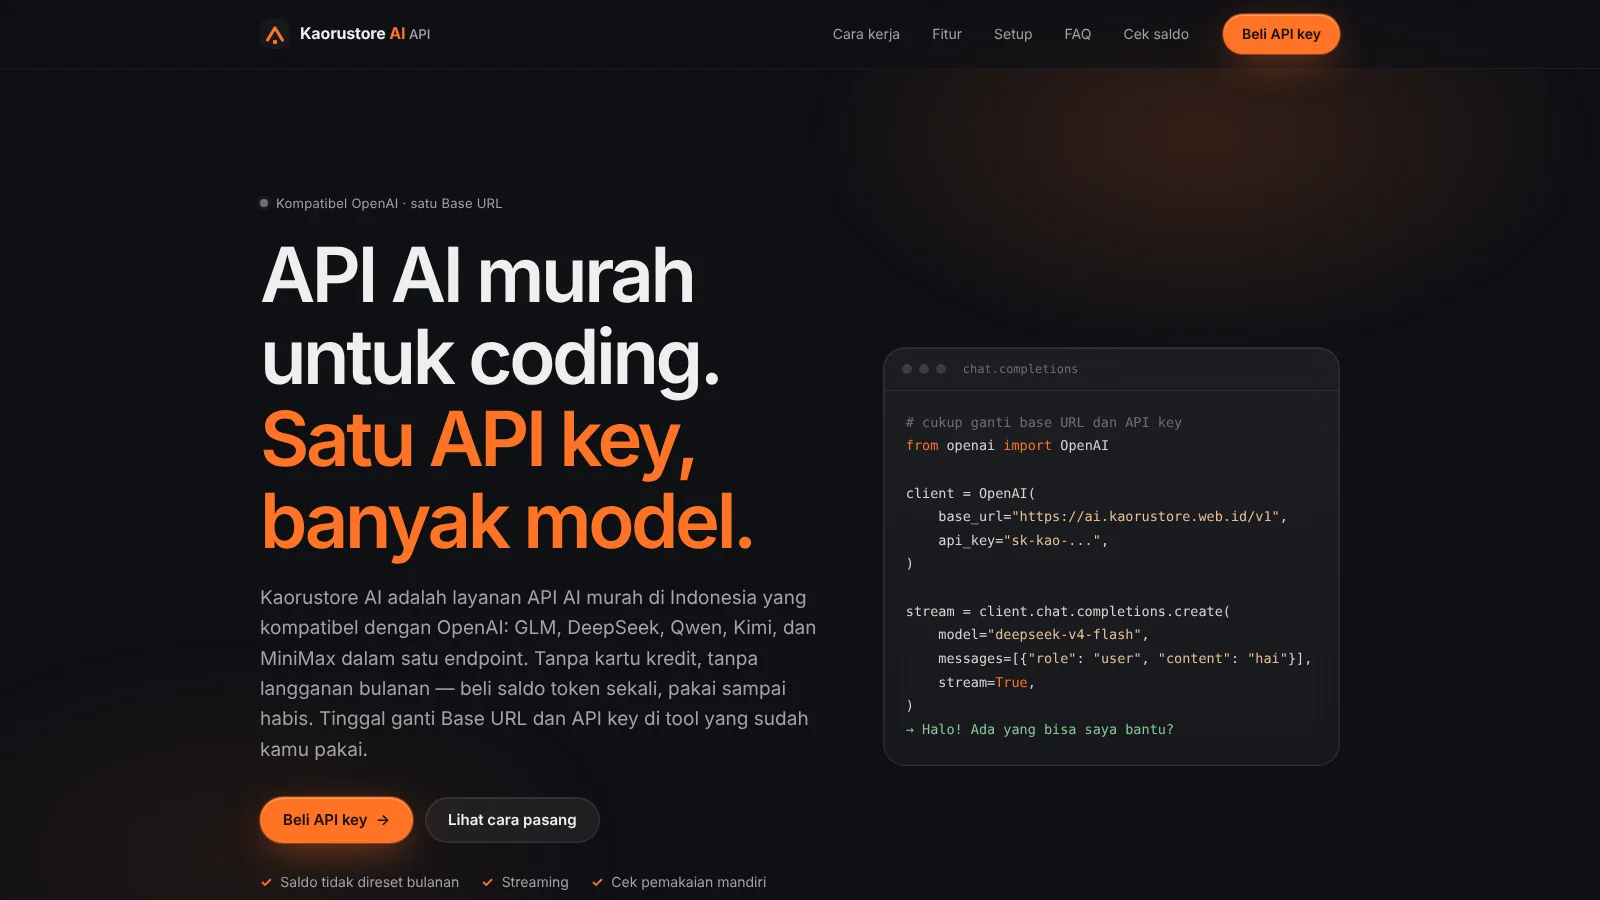
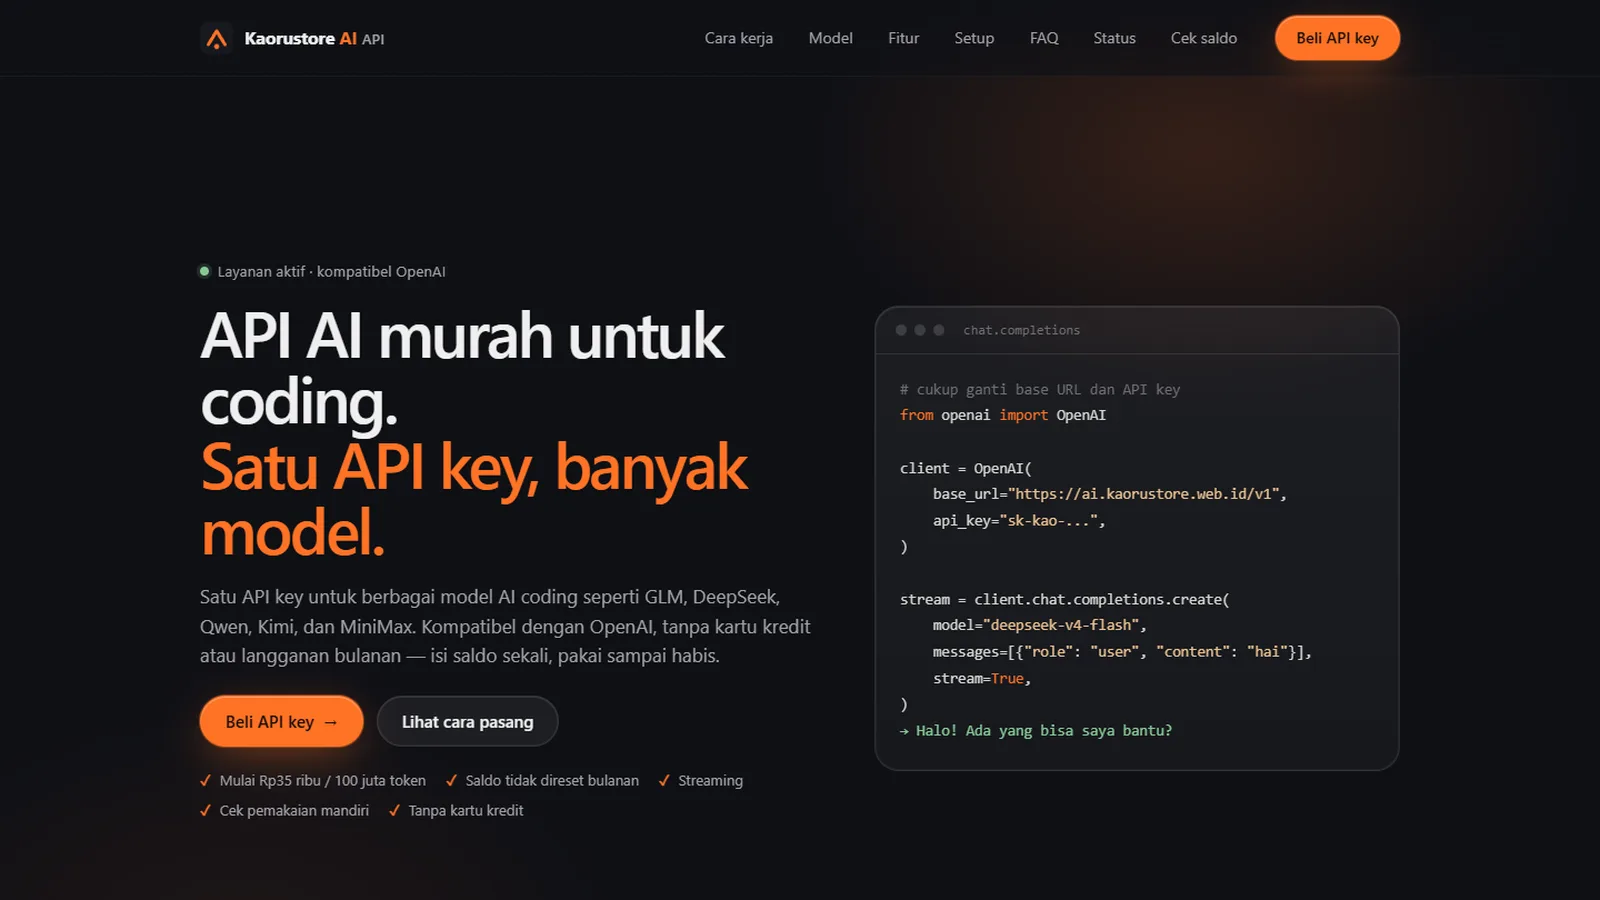
websites: refresh Yakin Lulus and Kaorustore copy and screenshots from the live sites

diff --git a/src/data/websites.ts b/src/data/websites.ts
@@ -9,7 +9,7 @@ export const websitesData: GameItem[] = [
     image: "/web-yakin-lulus.webp",
     href: "https://yakinlulus.id/",
     description:
-      "Online tryout platform for school and CPNS exams: timed tests that autosave, automatic scoring, answer reviews, and an admin panel for managing packages and questions.",
+      "Tryout platform for the SKD CPNS exam with 1K+ registered users and a 7K+ question bank: CAT-style tests with a timer, per-subtest passing thresholds, answer explanations, a filterable catalog, and plain Free vs Premium pricing.",
     platform: "yakinlulus.id",
     linkLabel: "Visit yakinlulus.id",
     tags: ["Laravel", "Inertia React", "PostgreSQL"],
@@ -22,7 +22,7 @@ export const websitesData: GameItem[] = [
     image: "/web-kaorustore-ai.webp",
     href: "https://ai.kaorustore.web.id/",
     description:
-      "My own AI API business: one OpenAI-compatible key for GLM, DeepSeek, Qwen, Kimi, and MiniMax, sold as pay-once token credit, with a self-serve usage page and an admin panel for keys, quotas, and monitoring.",
+      "My own AI API business: one OpenAI-compatible key for 48 models, including Claude, GPT, Gemini, DeepSeek, and Qwen, sold as pay-once token credit. Three-step setup, per-model price multipliers, a self-serve usage page, and a live status monitor.",
     platform: "kaorustore.web.id",
     linkLabel: "Visit Kaorustore AI",
     tags: ["Node.js", "React admin", "SQLite"],
